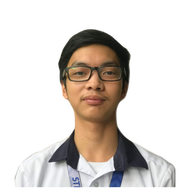
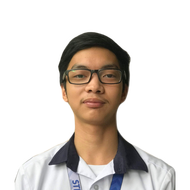
Added William

diff --git a/Activity_3_table_of_Contents.html b/Activity_3_table_of_Contents.html
@@ -72,7 +72,7 @@
 				<tr class="first_three">
 					<td class="student_pic" id="student_1">
 						<a href="http://google.com">
-							<img src="https://raw.githubusercontent.com/secrecyyy/WebProg_Act3/main/Student_pictures/Student_1/rsz_capati_angelo_d.png">
+							<img src="https://raw.githubusercontent.com/secrecyyy/WebProg_Act3/main/Student_pictures/Student_1/Bacani%2C%20Peter%20Joshua%20L..png">
 						</a>
 					</td>
 					<td class="student_pic" id="student_2">
@@ -111,12 +111,12 @@
 					</td>
 					<td class="student_pic" id="student_8">
 						<a href="http://google.com">
-							<img src="https://raw.githubusercontent.com/secrecyyy/WebProg_Act3/main/Student_pictures/Student_1/Magat%2C%20Nehemiah%20James.png">
-						</a>
+							<img src="https://raw.githubusercontent.com/secrecyyy/WebProg_Act3/main/Student_pictures/Student_1/Magat%2C%20Nehemiah%20James.png"
+>						</a>
 					</td>
 					<td class="student_pic" id="student_9">
 						<a href="http://google.com">
-							<img src="https://raw.githubusercontent.com/secrecyyy/WebProg_Act3/main/Student_pictures/Student_1/rsz_capati_angelo_d.png">
+							<img src="https://raw.githubusercontent.com/secrecyyy/WebProg_Act3/main/Student_pictures/Student_1/Castro%2C%20Lanz%20Harry.png">
 						</a>
 					</td>
 				</tr>
